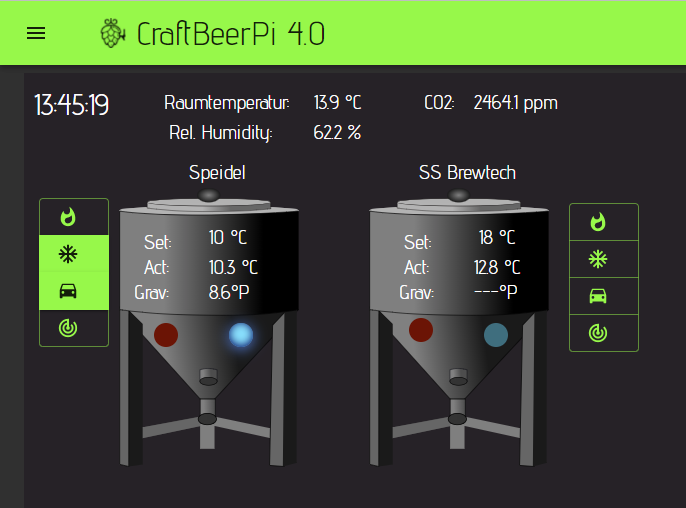
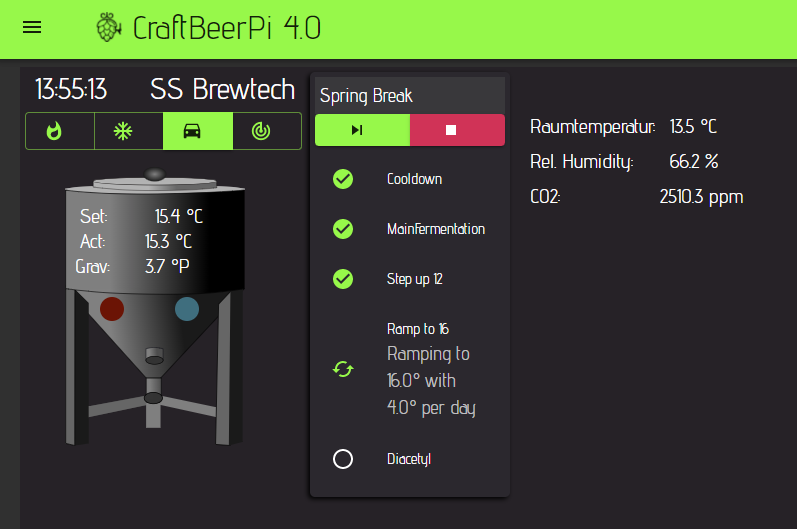
update operating fermenter

diff --git a/master/operating-your-system.md b/master/operating-your-system.md
@@ -96,7 +96,7 @@ CraftbeerPi4 supports also fermentation with the Fermenter hardware, a correspon
 
 The integrated logic has some special settings for fermentation and you need to adapt just a few settings for each batch. Details on the other parameters have been already described [here](craftbeerpi-4-server/hardware.md#setting-up-the-hardware-for-fermentation).
 
-* If you want to start the fermenter automatically during reboot, you need to set AutoStart to 'Yes'. If you are not fermenting in your fermenter, the setting should be switched back to 'No' or you should clear the fermenter profile for this fermenter that no steps are in the rofle that could be started.
+* If you want to start the fermenter automatically during reboot, you need to set AutoStart to 'Yes'. In this case, the fermenter will start with the last step and the remaining time. If you are not fermenting in your fermenter, the setting should be switched back to 'No' or you should clear the fermenter profile for this fermenter that no steps are in the rofle that could be started.
 * The BrewName does not need to be set here as it will  be be set in the recipe and will be shown in the [modded LCDisplay Plugin ](https://github.com/avollkopf/cbpi4-LCDisplay)during fermentation but also on thop of the fermenter step widget.
 * The additional sensor property in the logic is only relevant, if you use the modded LCDisplay Plugin. Here you can select for instance an iSpindle Sensor and your Gravity is shown on the LCDisplay
 
@@ -106,16 +106,20 @@ You need to save your settings and go back to your [dashboard, where you did set
 
 ![Fermenter dashboard](../.gitbook/assets/cbpi4-operating-fermenter.png)
 
-In the dashboard example above you can see two fermenters that can be operated in parallel. If you have more, you can also define more fermenters.
+In the dashboard example above you can see a dashboard with one fermenters and the fermenterstep widget where a recipe has been loaded. If you have multiple fermenters, you can add them to the same dashboard or use one dashboard per femrenter. You just need to pay attention that you assign the widgets such as control or steps to the correct fermenter you want to control.
 
-You need to set the TargetTemp to the desired temp for your fermentation via the fermenter control item. There is currently no possibility to run step based fermentation.&#x20;
-
-In this example the target temperature was defined at 10°C. If you have now assigned the femrenter control item to the Speidel fermenter as described [here](craftbeerpi-4-server/dashboard.md#creating-a-simple-fermenter-dashboard), you just need to click on the car symbol to start the Automode.
-
-![Speidel Fermenter is working in Automode](../.gitbook/assets/cbpi4-operating-fermenter-automode.png)
-
-As soon, as the Automode is started, the logic will switch on the actor for cooling or heating to get to the desired target temp. If you restart the system and have enabled Fermenter Autostart in the logic, the Automode will be started with the target temp specified in the logic settings.
+If you have not yet created or loaded a recipe for this fermenter, you need to create / load a recicpe from the [fermenterprofile / recipebook](craftbeerpi-4-server/fermenter-profile.md).
 
 {% hint style="info" %}
-There is currently no other way to run a fermentation. However, tests over a multiple batches have shown, that it is running very stable. Implementation of step based fermentation is planned, but there is currently no timeline available.
+There is no need to set the TargetTemp as this is done by the recipe. However, you could set the target temp and click on the auto symbol to run the fermenterlogic w/o any steps. The logic will ramp the temp to the desired target temp and keeps it until you stop the logic. However, this is not the recommended scenario to operate your fermenter.
 {% endhint %}
+
+
+To start the fermenterprocess, you just need to clock on the play button like it is already described for brewing and the steps for the specified fermenter will start and the steps will set parameters such as target temp automatically. If you enabled also Automode in the fermenter steps, the logci will also start automatically.
+
+![SS Brewtech Fermenter is working in Automode](../.gitbook/assets/cbpi4-operating-fermenter-automode.png)
+
+As soon, as the Automode is started, the logic will switch on the actor for cooling or heating to get to the desired target temp. If you restart the system and have enabled Fermenter Autostart in the logic, the Automode will be started with the last step and the remaining step time.
+
+Some steps have also step actions and you can access them or the step properties by clicking on the step itself. You can also pause, resume or move directly to the next step via the step widget in the same way as it has been described for the brewing.
+

diff --git a/README.md b/README.md
@@ -9,8 +9,8 @@ description: Software for brewing and fermenting beer
 Documentation: 1.3
 
 Valid for 
-- Server: 4.0.3
-- User Interface: 0.2.0.5
+- Server: 4.0.3.X
+- User Interface: 0.2.X
 
 ## Craftbeerpi 4 overview
 
